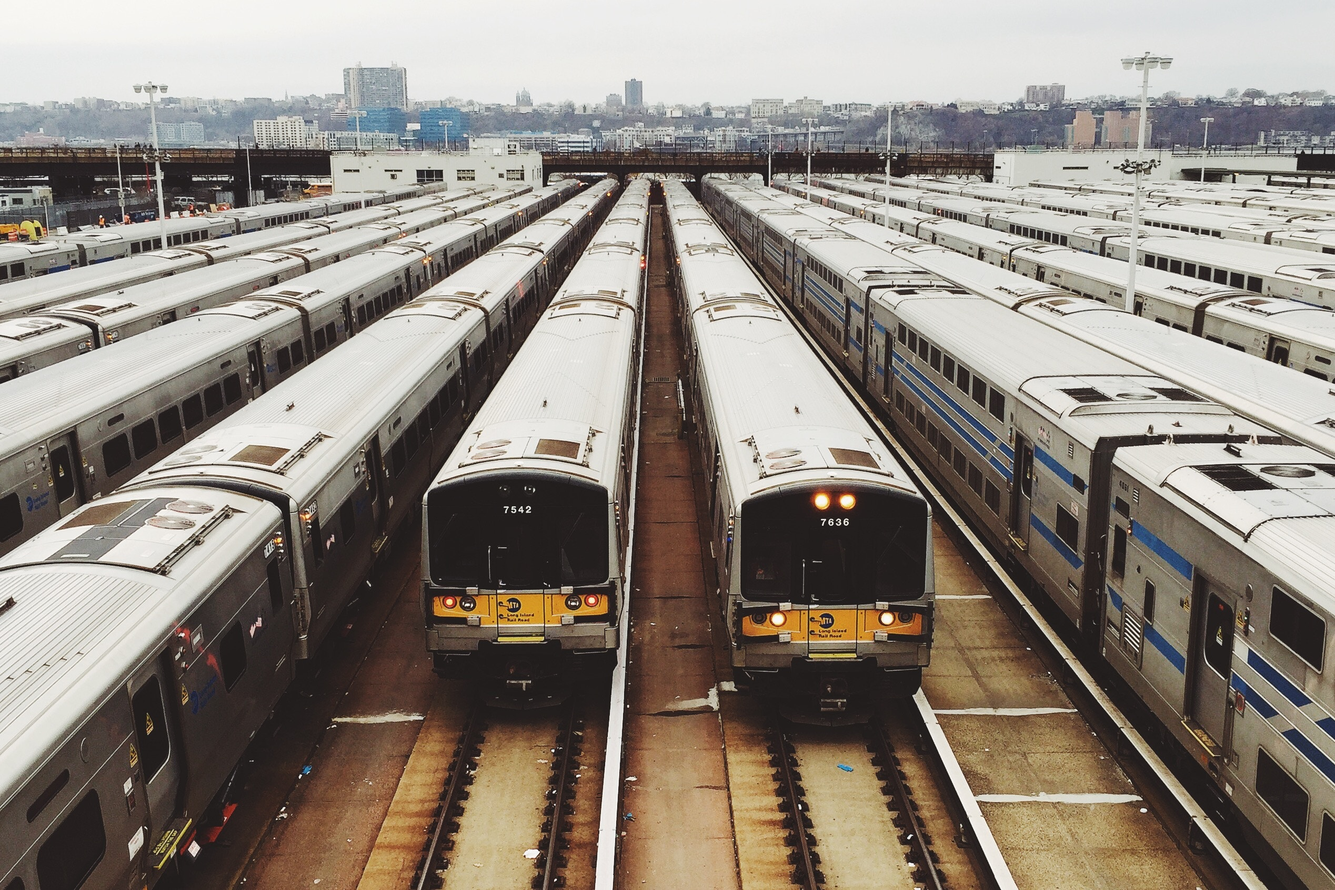
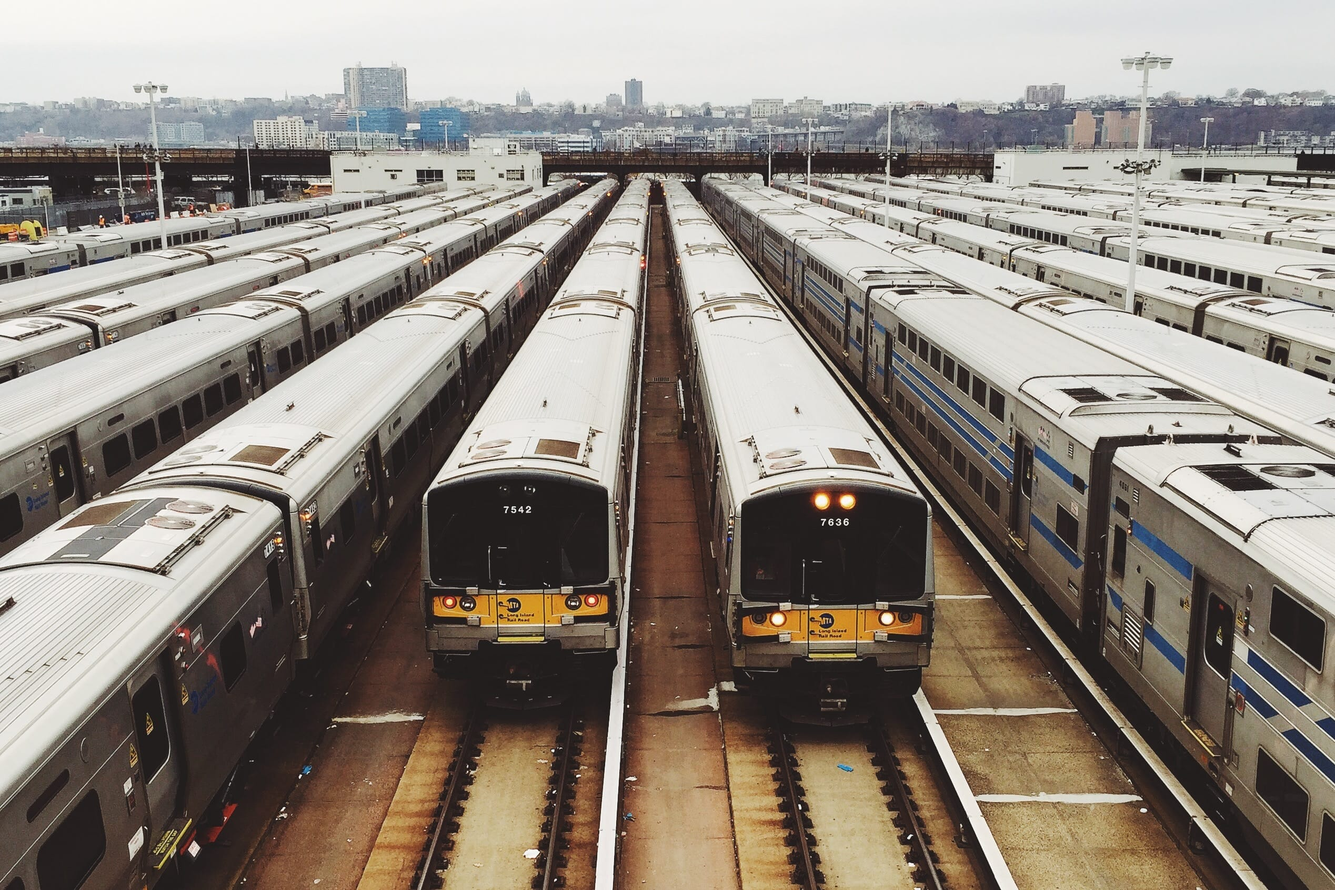
Optimize images

diff --git a/src/css/jumbo.scss b/src/css/jumbo.scss
@@ -32,6 +32,7 @@
 }
 
 .jumbo2 {
+  background-color: #60d096;
   background-image: linear-gradient(to bottom, rgba(255, 184, 184, .52) 0%, rgba(255, 255, 255, 0) 66%), url("../assets/alex.jpg");
 }
 

diff --git a/src/css/buttons.scss b/src/css/buttons.scss
@@ -58,8 +58,9 @@ button {
 
   > h4 {
     margin: 2rem 0;
-    text-transform: uppercase;
+    text-transform: lowercase;
     letter-spacing: 0.2rem;
+    font-weight: 600;
   }
 
   > p {
